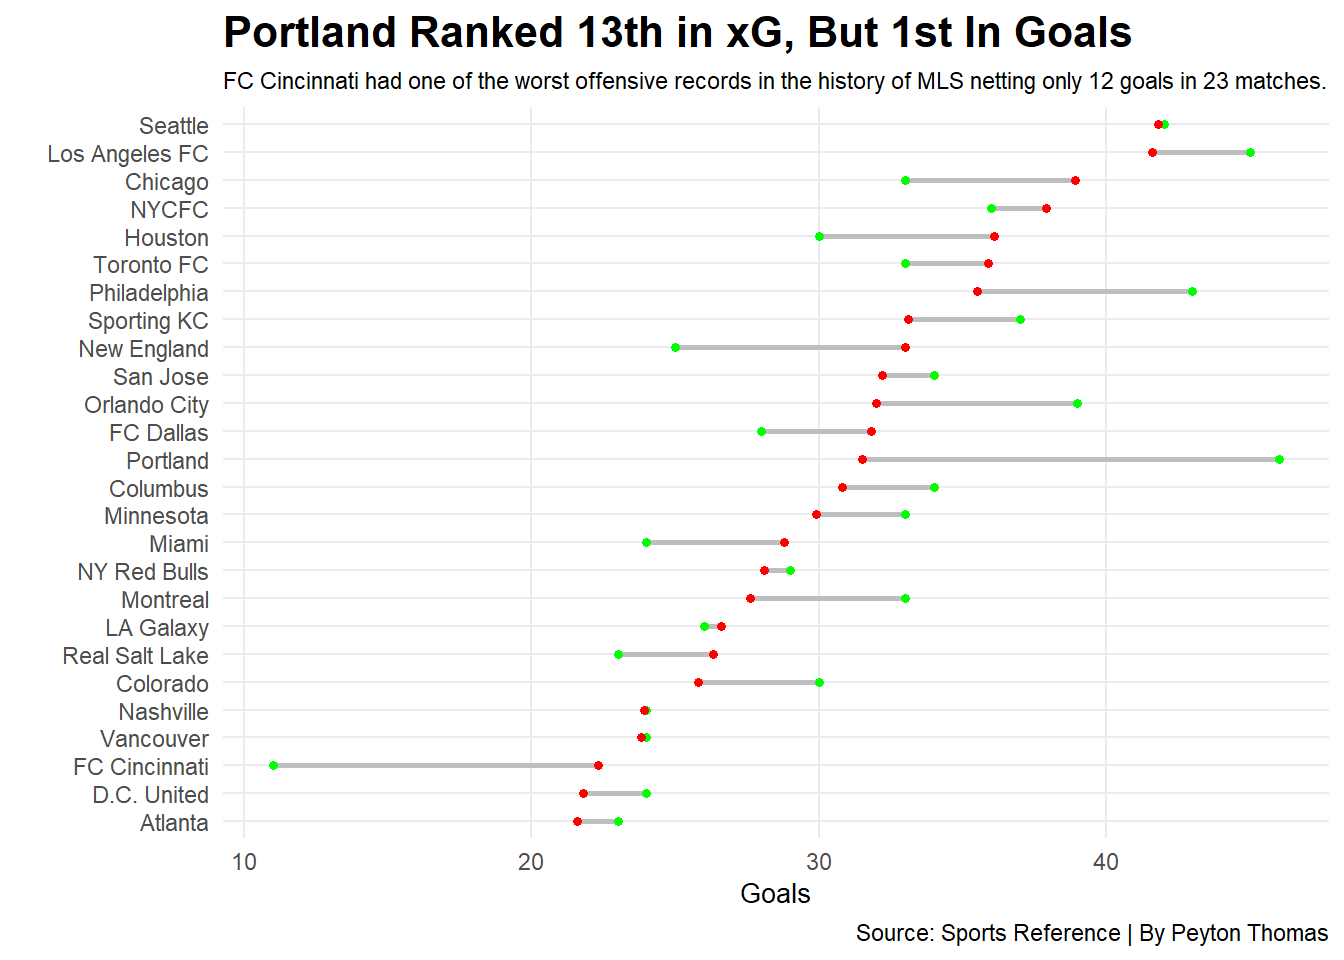
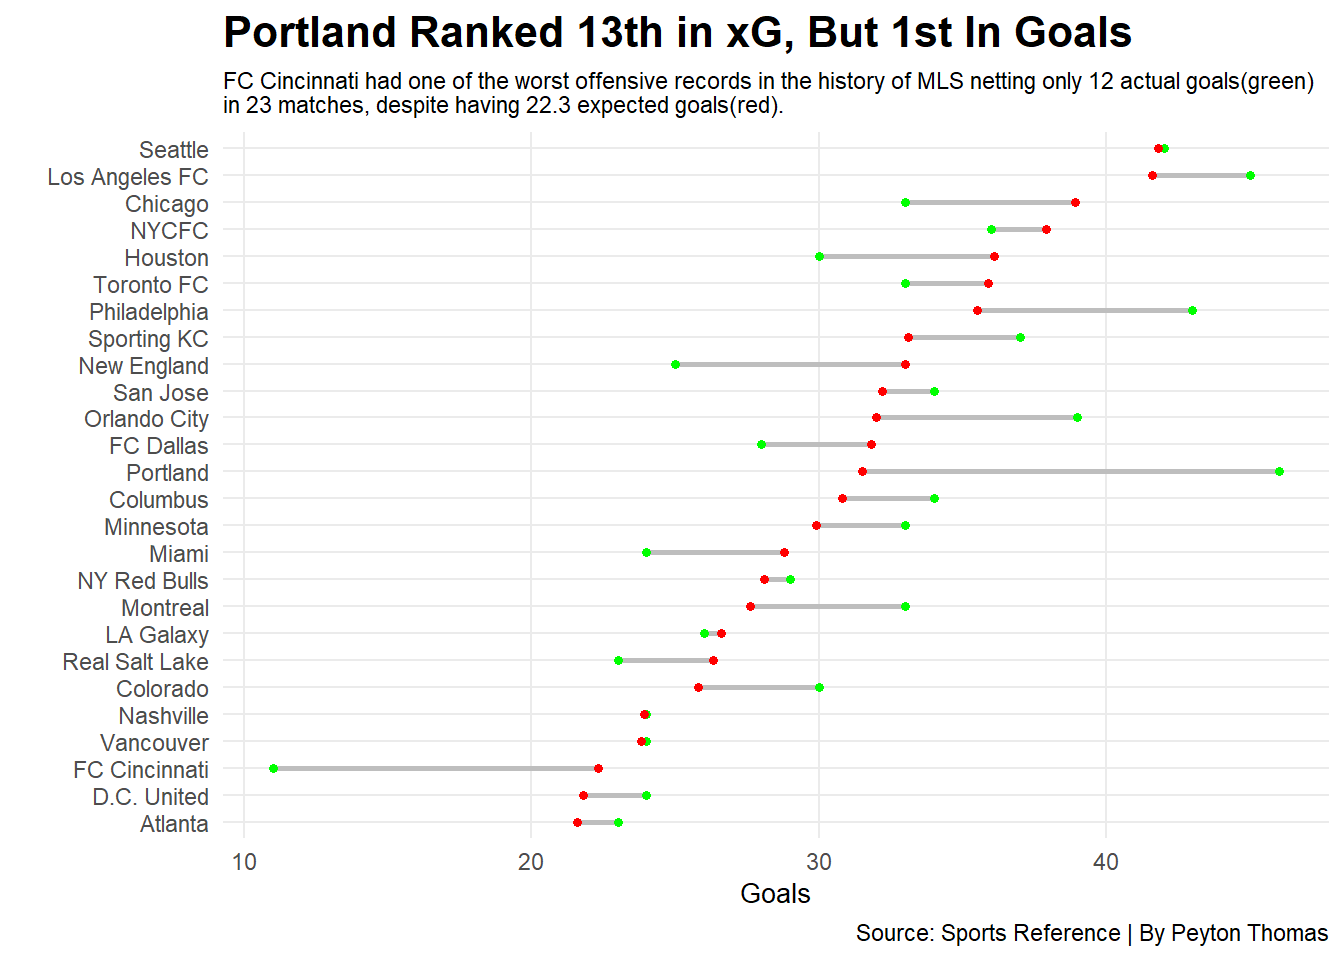
edits

diff --git a/2021/04/20/where-expected-goals-falls-short/index.html b/2021/04/20/where-expected-goals-falls-short/index.html
@@ -95,7 +95,8 @@ TeamAg &lt;- read_csv(&quot;vs-all.csv&quot;)</code></pre>
     color = &quot;grey&quot;,
     colour_x = &quot;green&quot;,
     colour_xend = &quot;red&quot;) + theme_minimal() +
-  labs(x= &quot;Goals&quot;, y= &quot;&quot;, title=&quot;Portland Ranked 13th in xG, But 1st In Goals&quot;, subtitle=&quot;FC Cincinnati had one of the worst offensive records in the history of MLS netting only 12 goals in 23 matches.&quot;, caption=&quot;Source: Sports Reference | By Peyton Thomas&quot;)  +
+  labs(x= &quot;Goals&quot;, y= &quot;&quot;, title=&quot;Portland Ranked 13th in xG, But 1st In Goals&quot;, subtitle=&quot;FC Cincinnati had one of the worst offensive records in the history of MLS netting only 12 actual goals(green)
+in 23 matches, despite having 22.3 expected goals(red).&quot;, caption=&quot;Source: Sports Reference | By Peyton Thomas&quot;)  +
   theme(
     plot.title = element_text(size = 16, face = &quot;bold&quot;),
     axis.title = element_text(size = 10), 
@@ -116,7 +117,7 @@ Leading the way in expected goals is Seattle with 41.8, and they scored exactly 
     color = &quot;grey&quot;,
     colour_x = &quot;green&quot;,
     colour_xend = &quot;red&quot;) + theme_minimal() +
-  labs(x= &quot;Goals Allowed&quot;, y= &quot;&quot;, title=&quot;Philadelphia Won The Supporters Shield Behind An Impressive Back Line&quot;, subtitle=&quot;The two teams who won silverware in 2020 ranked 1st and 2nd in total goals conceded.&quot;, caption=&quot;Source: Sports Reference | By Peyton Thomas&quot;)  +
+  labs(x= &quot;Goals Allowed&quot;, y= &quot;&quot;, title=&quot;Philadelphia Won The Supporters Shield Behind An Impressive Back Line&quot;, subtitle=&quot;The two teams who won silverware in 2020 ranked 1st and 2nd in actual goals conceded(green).&quot;, caption=&quot;Source: Sports Reference | By Peyton Thomas&quot;)  +
   theme(
     plot.title = element_text(size = 12, face = &quot;bold&quot;),
     axis.title = element_text(size = 10), 
